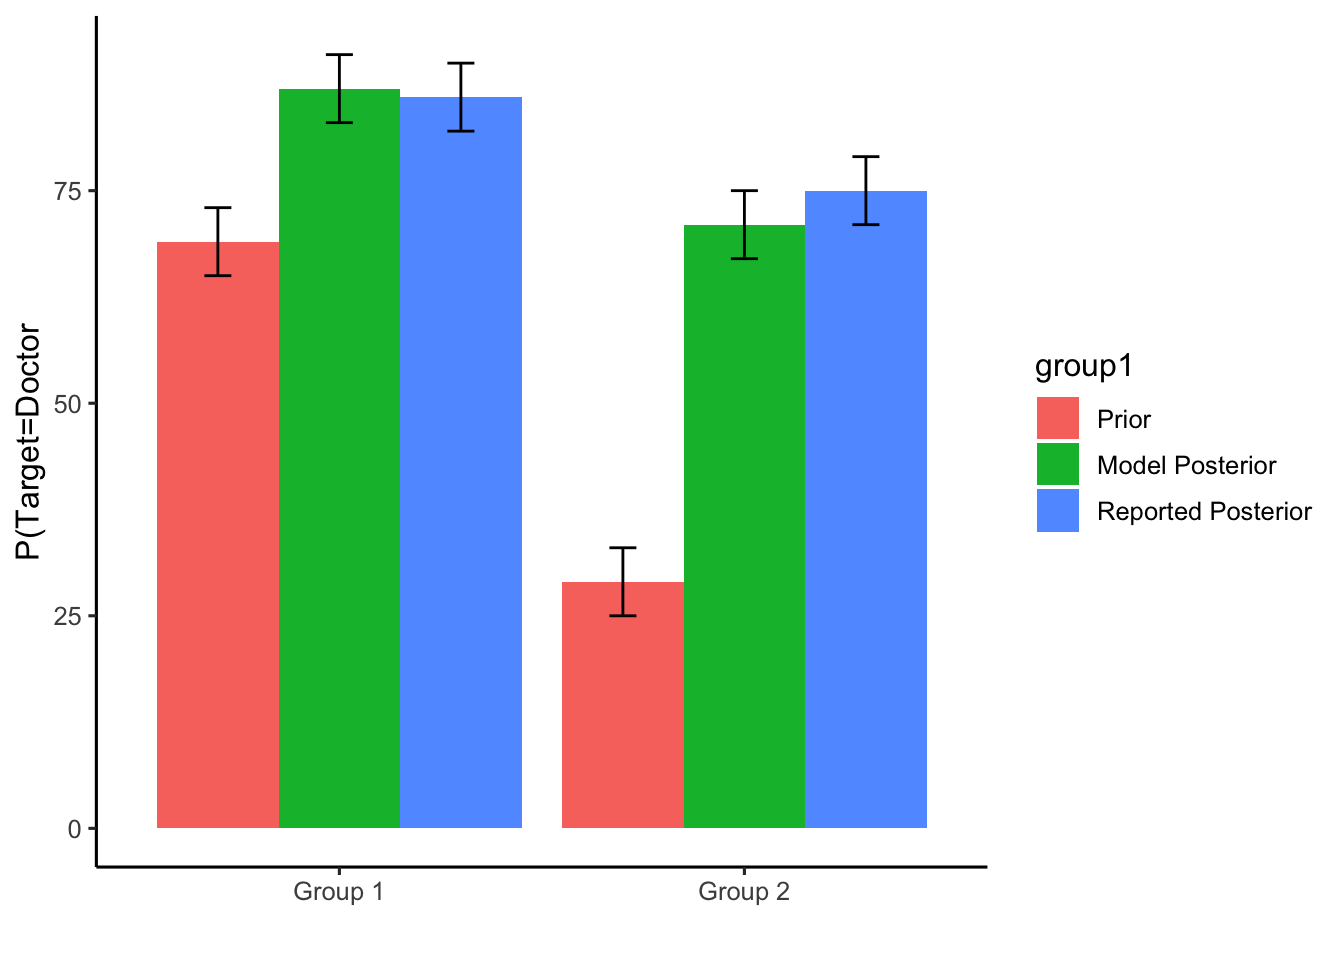
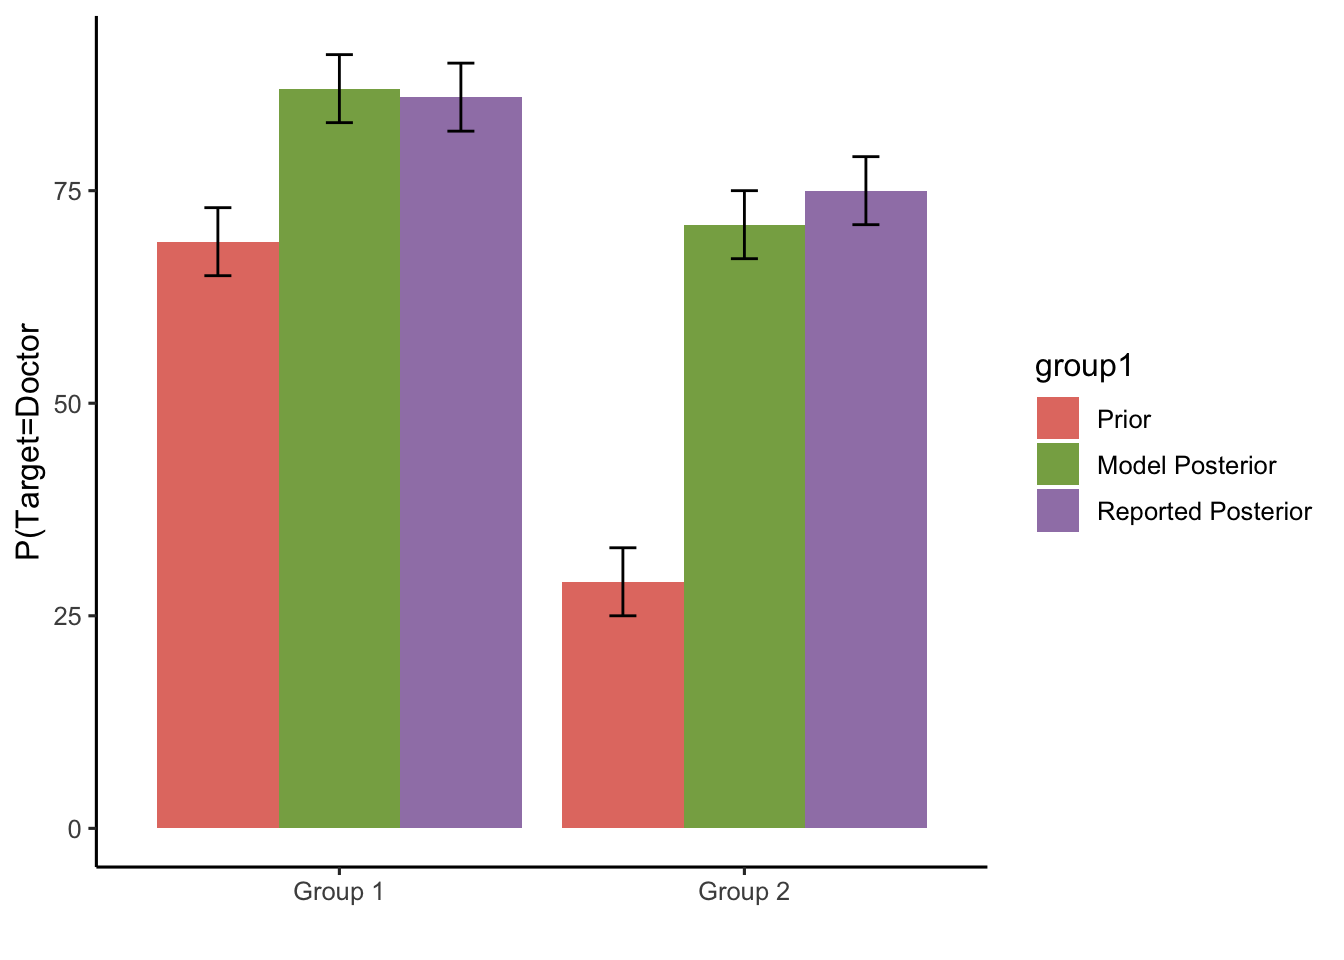
completed ques 6&7

diff --git a/docs/DataVis.html b/docs/DataVis.html
@@ -469,7 +469,7 @@ agr_df &lt;- data.frame(person,likelihood,agree)
 library(ggplot2)
 ggplot(agr_df, aes(x=person, y=agree, group=likelihood, fill=likelihood))+
   geom_bar(stat=&quot;identity&quot;)+
-  scale_fill_manual(values=c(&quot;#CC6666&quot;,&quot;998099&quot;,&quot;#457595&quot;))+
+  scale_fill_manual(values=c(&quot;#E37B71&quot;,&quot;#58AD58&quot;,&quot;#7595C7&quot;))+
   theme_classic(base_size=12)+
   labs(x=&quot; &quot;, y=&quot;Percentage of participants&quot;)</code></pre>
 <p><img src="DataVis_files/figure-html/unnamed-chunk-5-1.png" width="672" /></p>
@@ -484,6 +484,7 @@ new_df &lt;- data.frame(group1,group2,scores,SE)
 library(ggplot2)
 ggplot(new_df, aes(x=group2, y=scores, fill=group1))+
   geom_bar(stat=&quot;identity&quot;, position=&quot;dodge&quot;)+
+  scale_fill_manual(values=c(&quot;#E37b71&quot;,&quot;#87AB52&quot;,&quot;#A082B5&quot;))+
   geom_errorbar(aes(ymin=scores-SE,
                     ymax=scores+SE),
                 position=position_dodge(width=0.9),
@@ -498,12 +499,40 @@ x &lt;- c(rep(0,99))
 df &lt;- data.frame(x,y)
 
 library(ggplot2)
-ggplot(df, aes(x=y))+
-  geom_histogram(binwidth=1, color=&quot;black&quot;, fill=&quot;#009090&quot;)+
-  coord_cartesian(xlim=c(0,35),ylim=c(0,40))+
+
+g1&lt;- ggplot(df, aes(x=y))+
+  geom_histogram(binwidth=1, color=&quot;black&quot;, fill=&quot;#53B7BD&quot;)+
+  scale_x_continuous(breaks=c(),
+                     labels=c(&quot; &quot;),
+                     limits = c(0,35), expand = c(0, 0))+
+  scale_y_continuous(limits = c(0,40), expand = c(0, 0))+
   labs(x=&quot; &quot;, y=&quot;Participants (In Each Condition)&quot;)+
+  ggtitle(&quot;Man Performed Surgery\nn = 152&quot;)+
   geom_vline(xintercept=17, linetype=&quot;dotted&quot;)+
-  theme_classic(base_size = 12)</code></pre>
+  theme_classic(base_size = 10)+
+  theme(plot.title = element_text(hjust = 0.5))
+
+y &lt;- c(rep(-2,1),rep(-1.5,4),rep(-1,6),rep(-0.5,4),rep(0,6),rep(0.5,5),rep(1,7),rep(1.5,8),rep(2,16),rep(2.5,9),rep(3,3),rep(3.5,4),rep(4,2),rep(10,40))
+x &lt;- rep(0,115)
+df &lt;- data.frame(x,y)
+
+g2 &lt;- ggplot(df, aes(x=y))+
+  geom_histogram(binwidth=0.5, color=&quot;black&quot;, fill=&quot;#53B7BD&quot;)+
+  scale_x_continuous(breaks=c(-10,-4,-2,0,2,4,10),
+                     labels=c(&quot;-Inf&quot;,&quot;-4&quot;,&quot;-2&quot;,&quot;0&quot;,&quot;2&quot;,&quot;4&quot;,&quot;Inf&quot;),
+                     limits=c(-11.25,12),
+                     expand = c(0, 0))+
+  scale_y_continuous(limits = c(0,40), expand = c(0, 0))+
+  labs(x=&quot;Log Liklihood Ratio&quot;, y=&quot;Participants (In Each Condition)&quot;)+
+  ggtitle(&quot;Woman Performed Surgery\nn = 142&quot;)+
+  geom_vline(xintercept=0, linetype=&quot;dotted&quot;)+
+  theme_classic(base_size = 10)+
+  theme(plot.title = element_text(hjust = 0.5))
+
+library(gridExtra)
+grid.arrange(g1, g2, nrow=2)</code></pre>
+<pre><code>## Warning: Removed 2 rows containing missing values (geom_bar).</code></pre>
+<pre><code>## Warning: Removed 1 rows containing missing values (geom_bar).</code></pre>
 <p><img src="DataVis_files/figure-html/unnamed-chunk-9-1.png" width="672" /></p>
 
 
